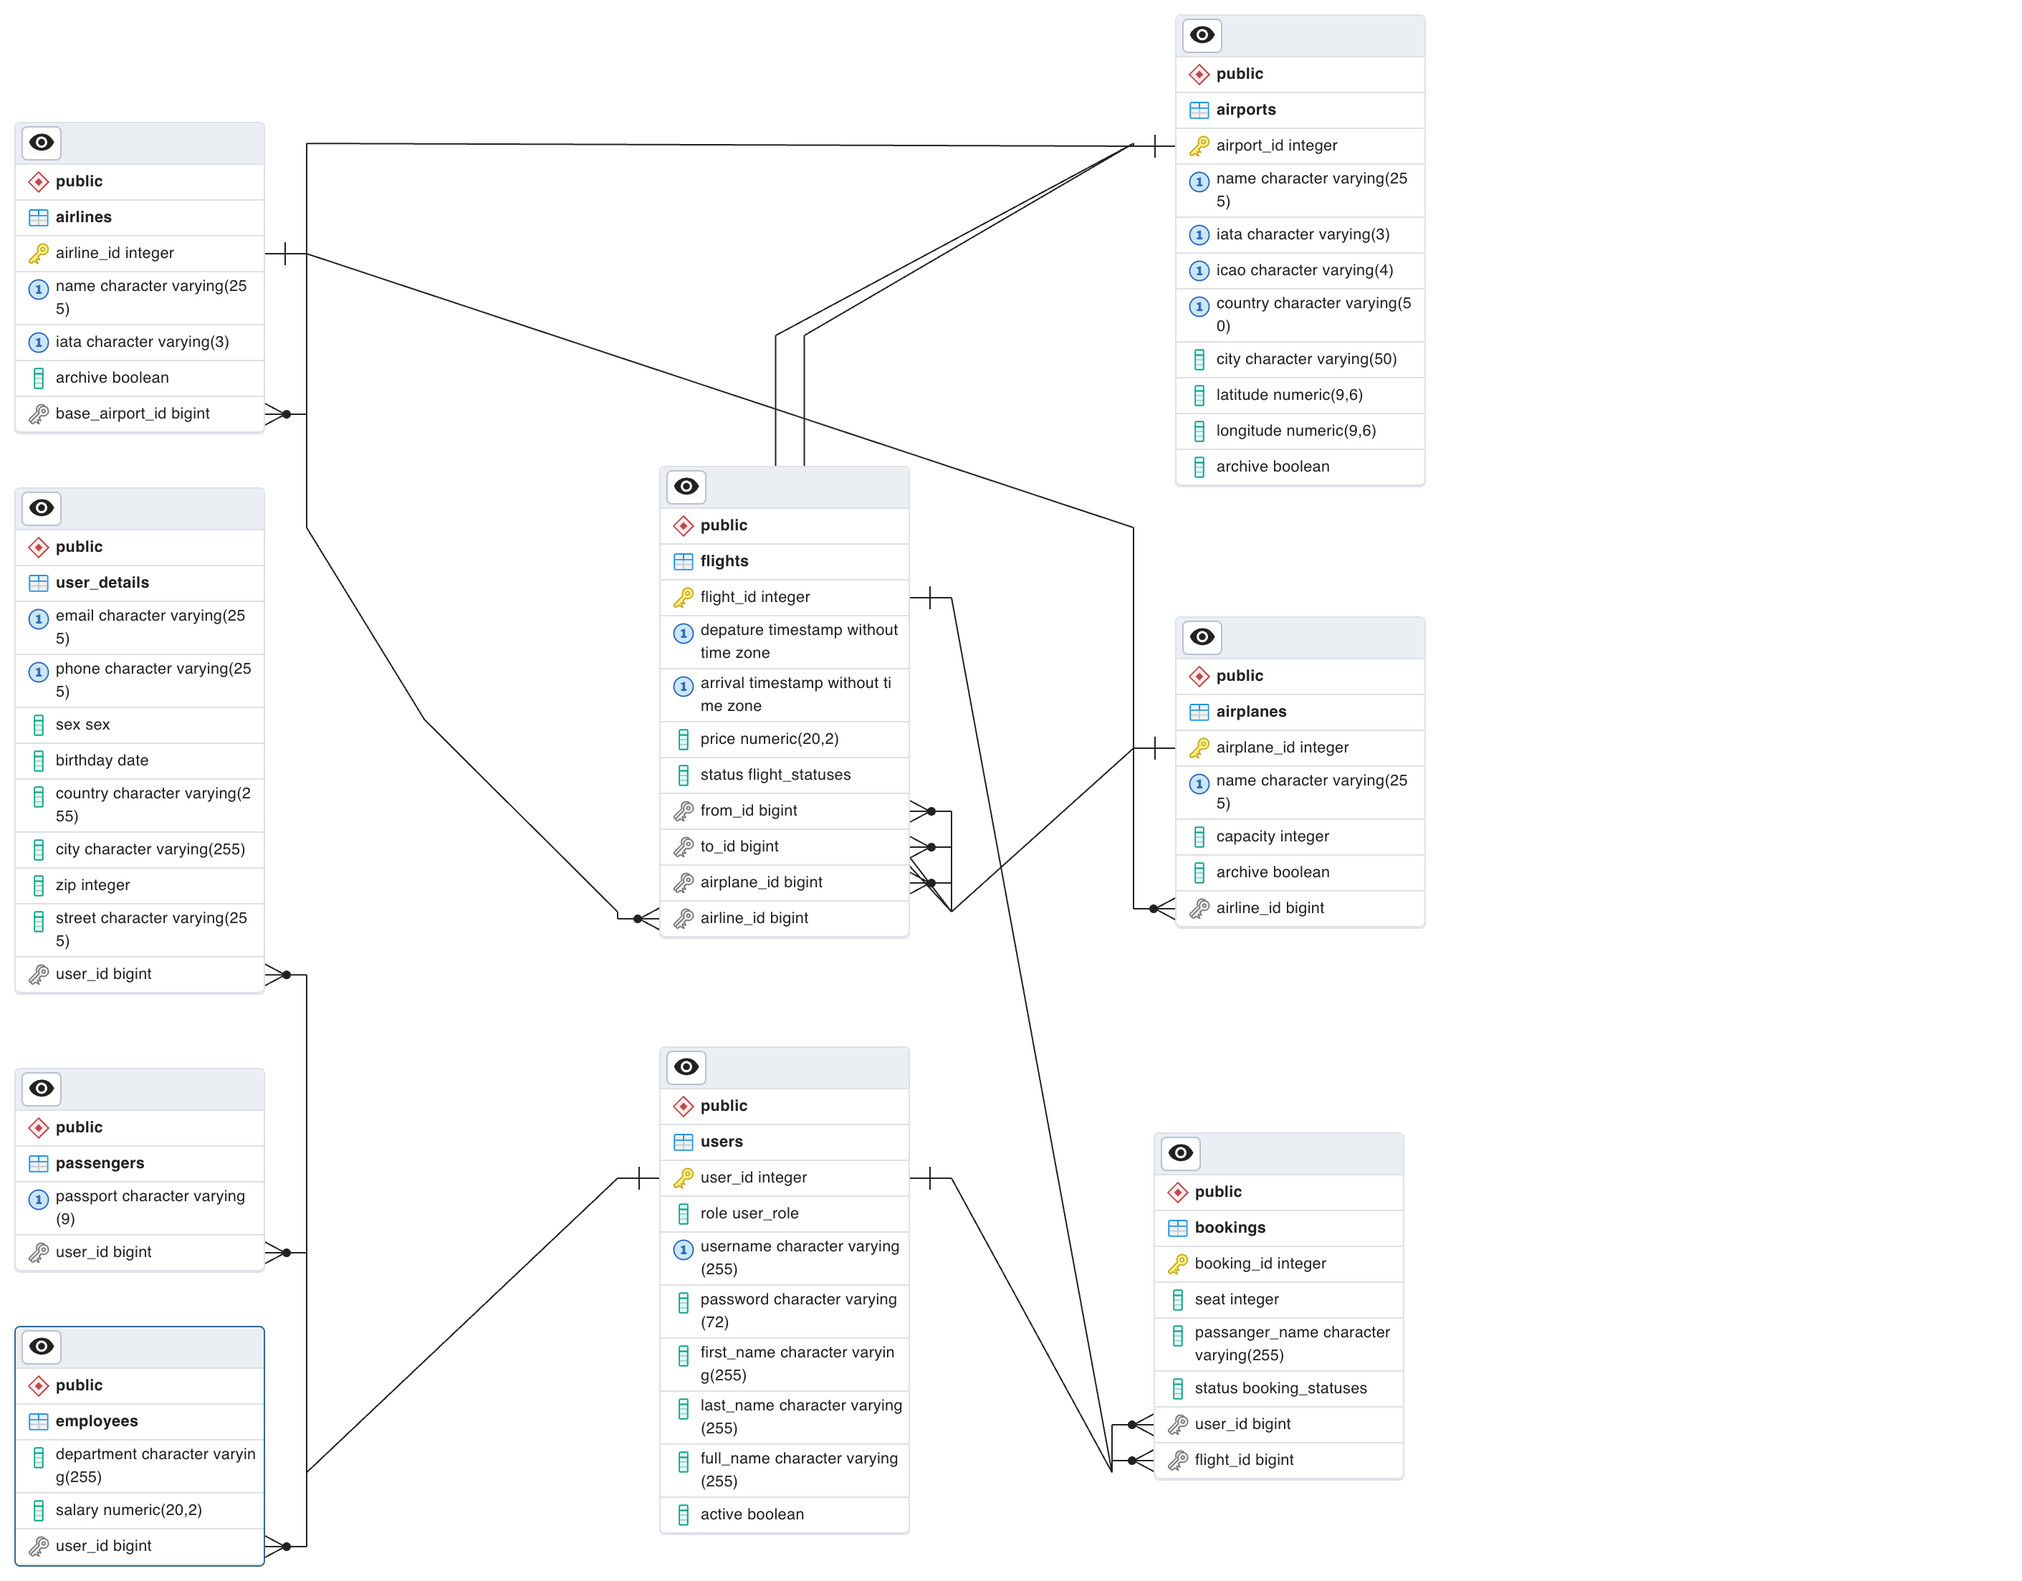
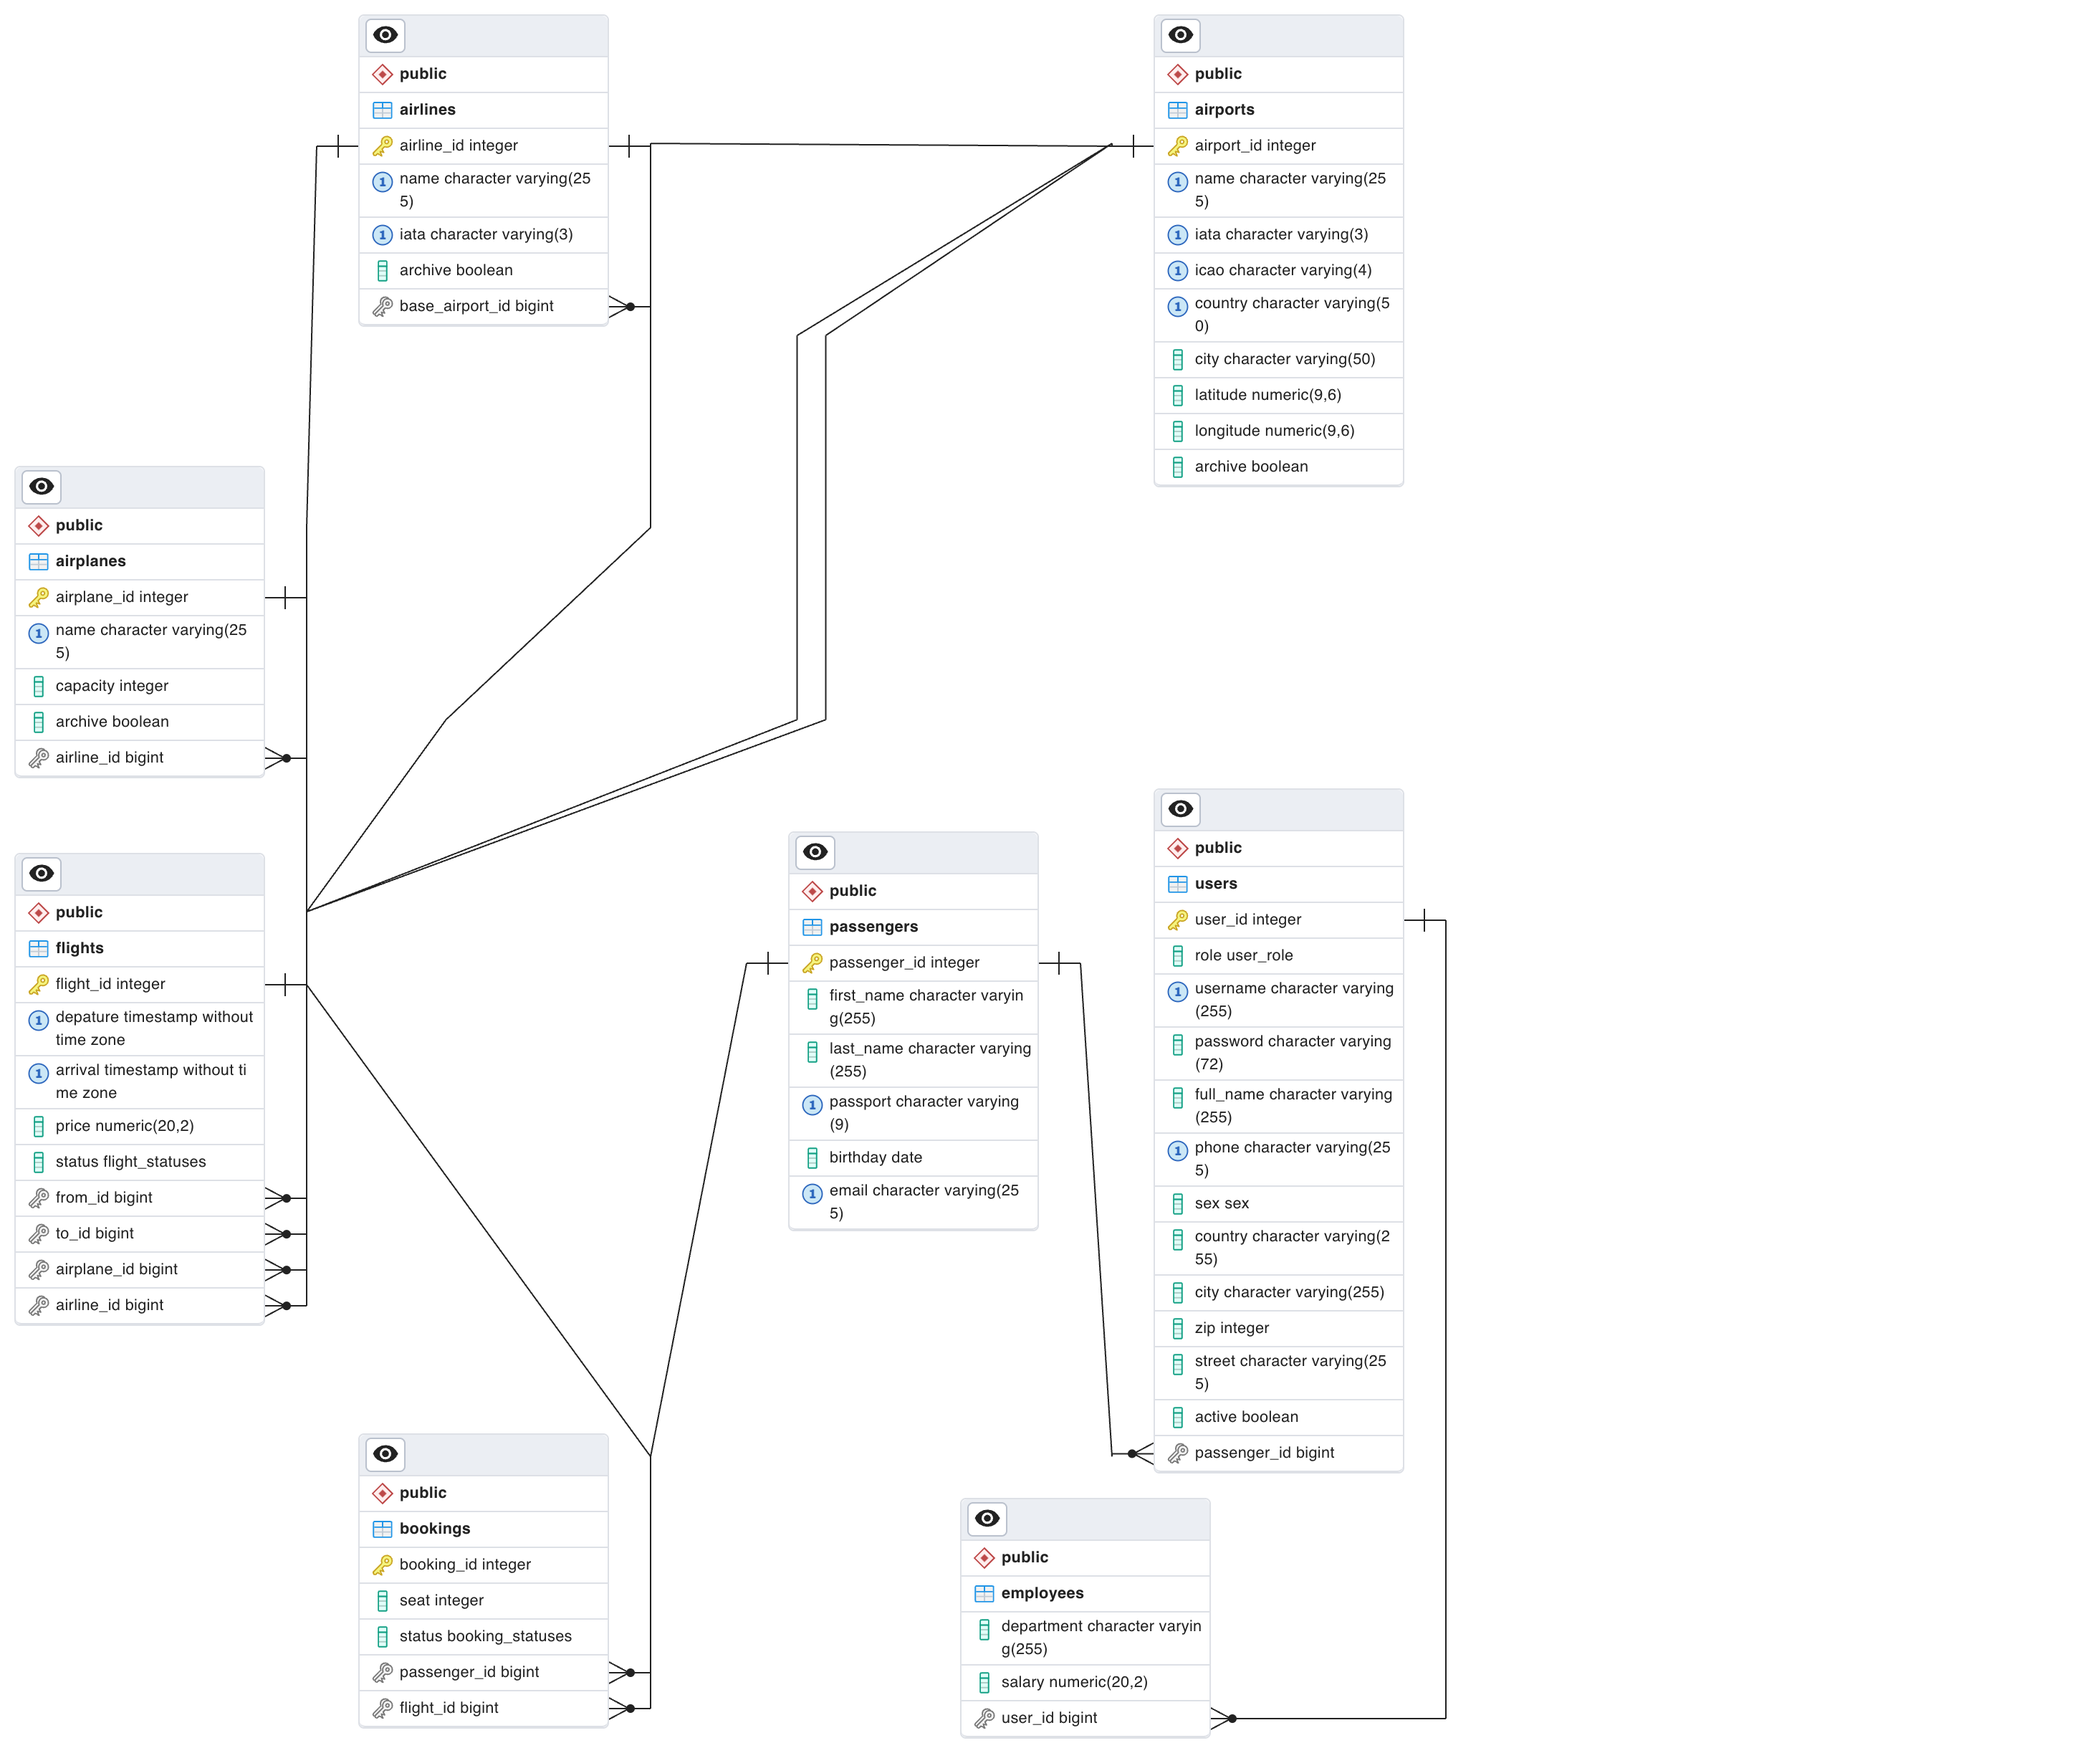
Database refactoring

diff --git a/README.md b/README.md
@@ -2223,7 +2223,18 @@ PostgreSQL and PgAdmin
    |	archive | BOOLEAN | | Airplane's status: NOT NULL, DEFAULT false |
    |	airline_id | BIGINT | FK | Airline ID: NOT NULL |
 
-4. Users
+4. Passengers
+
+   | name | type | key | Description |
+   |------|------|-----|-------------|
+   | passenger_id | BIGINT | PK | Passenger ID |
+   | first_name | VARCHAR | | First name: NOT NULL |
+   | last_name | VARCHAR | | Last name: NOT NULL |
+   | email | VARCHAR | | User email: NOT NULL, UNIQUE |
+   | birthday | DATE | | User's birthday |
+   | passport | VARCHAR | Passenger's passport: UNIQUE, NOT NULL |
+
+5. Users
 
    | name | type | key | Description |
    |------|------|-----|-------------|
@@ -2231,17 +2242,15 @@ PostgreSQL and PgAdmin
    |	role | ENUM | | User's role: Admin, Manager, Passenger . NOT NULL, DEFAULT 'Passenger'|
    |	username | VARCHAR | | Username: UNIQUE, NOT NULL |
    |	password | VARCHAR | | Password: NOT NULL |
-   |	first_name | VARCHAR | | First name: NOT NULL |
-   |	last_name | VARCHAR | | Last name: NOT NULL |
    |	full_name | VARCHAR | | Full name: first name + last name: NOT NULL |
    |	active | BOOLEAN | | User's status: NOT NULL, DEFAULT true |
-
-5. Passengers
-
-   | name | type | key | Description |
-   |------|------|-----|-------------|
-   | passport | VARCHAR | Passenger's passport: UNIQUE, NOT NULL |
-   |	user_id | BIGINT | FK | User ID: NOT NULL |
+   |	phone | VARCHAR | | User phone: UNIQUE |
+   |	sex | ENUM | | User sex: male, female |
+   |	country | VARCHAR | | User country | 
+   |	city | VARCHAR | | User city |
+   |	zip | INTEGER | | Zip code |
+   |	street | VARCHAR | | User's street |
+   |	passenger_id | BIGINT | FK | Passenger ID: NOT NULL |
 
 6. Employees
 
@@ -2251,21 +2260,7 @@ PostgreSQL and PgAdmin
    |	salary | NUMERIC | | Employee's salary |
    |	user_id | BIGINT | FK | User ID: NOT NULL |
 
-7. User details
-
-   | name | type | key | Description |
-   |------|------|-----|-------------|
-   | email | VARCHAR | | User email: UNIQUE |
-   |	phone | VARCHAR | | User phone: UNIQUE |
-   |	sex | ENUM | | User sex: male, female |
-   |	birthday | DATE | | User's birthday |
-   |	country | VARCHAR | | User country | 
-   |	city | VARCHAR | | User city |
-   |	zip | INTEGER | | Zip code |
-   |	street | VARCHAR | | User's street |
-   |	user_id | BIGINT | FK | User ID: NOT NULL |
-
-8. Flights
+7. Flights
 
    | name | type | key | Description |
    |------|------|-----|-------------|
@@ -2279,13 +2274,12 @@ PostgreSQL and PgAdmin
    |	airplane_id | BIGINT | FK | Airplane ID: NOT NULL |
    |	airline_id | BIGINT | FK | Airline ID: NOT NULL |
 
-9. Bookings
+8. Bookings
 
    | name | type | key | Description |
    |------|------|-----|-------------|
    | booking_id | BIGINT | PK | Booking ID |
    |	seat | INTEGER | | Reserved seat: NOT NULL |
-   |	passanger_name | VARCHAR | | Passenger name: NOT NULL |
    |	status | ENUM | | Booking's status: 'Reserved', 'Cancelled', 'Paid'. NOT NULL, DEFAULT 'Reserved' |
-   |	user_id | BIGINT | FK | User ID: NOT NULL |
+   |	passenger_id | BIGINT | FK | Passenger ID: NOT NULL |
    |	flight_id | BIGINT | FK | Flight ID: NOT NULL |
